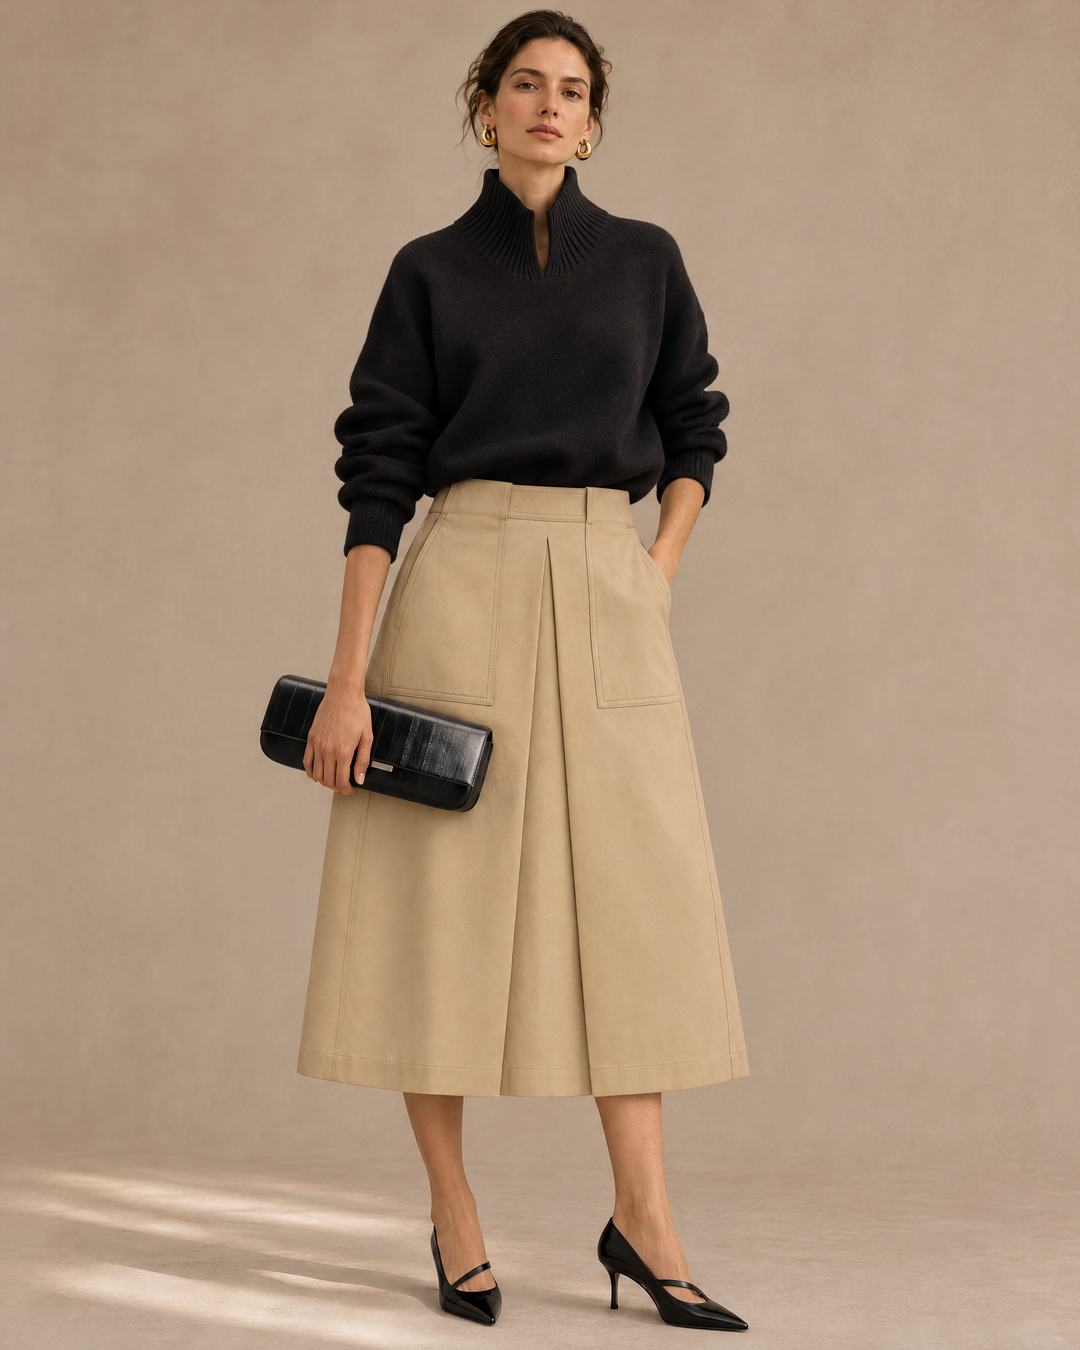
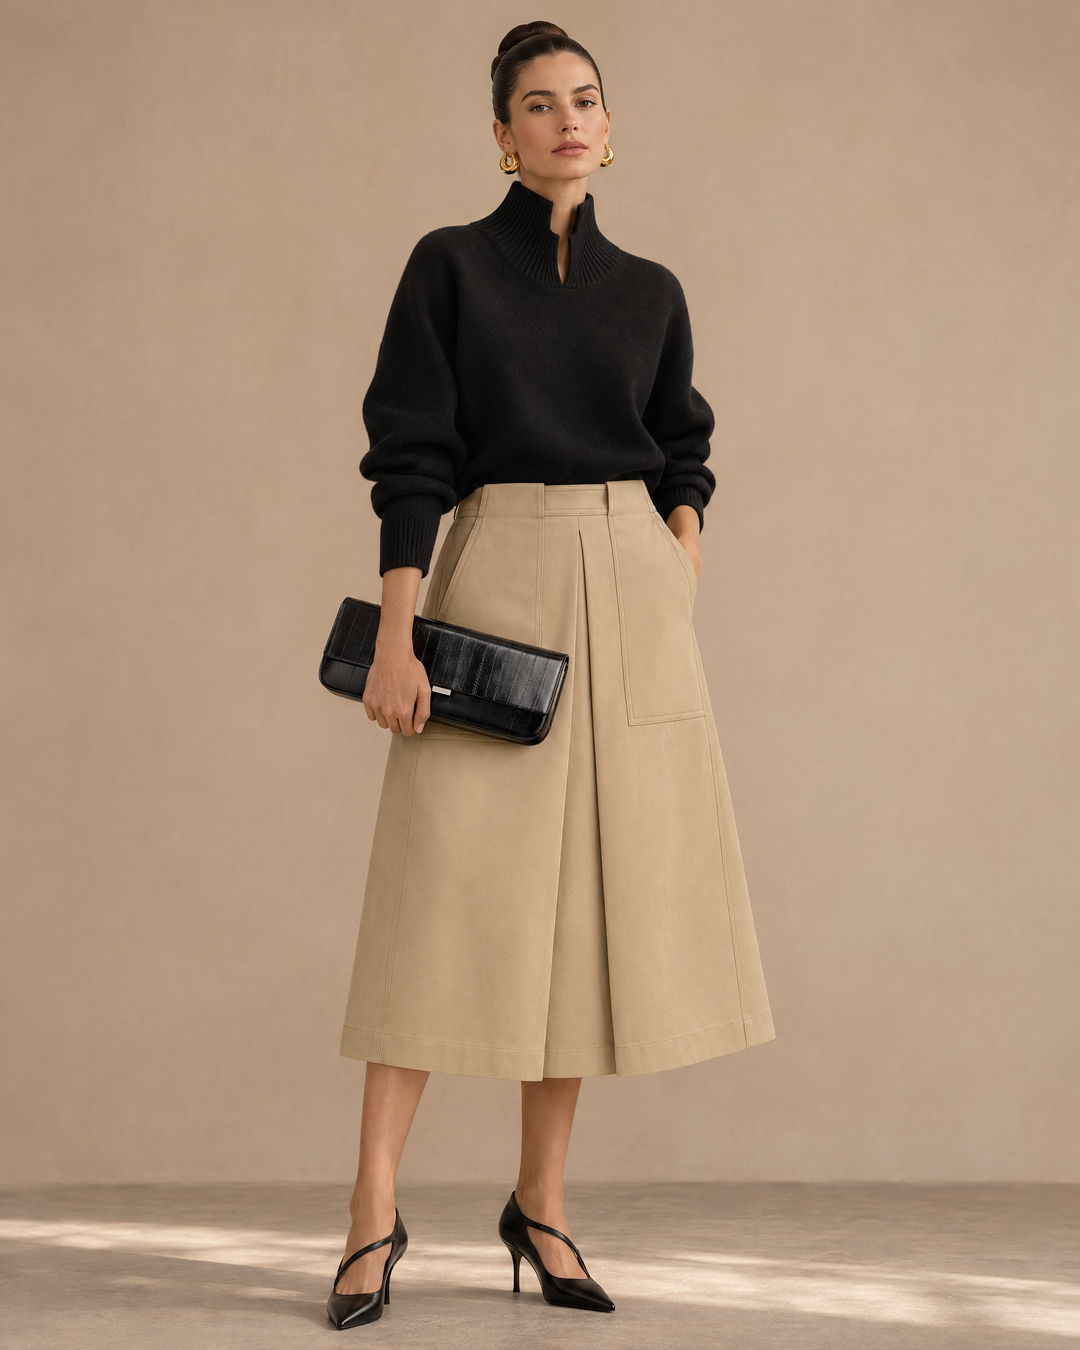
hub: coherence pass — multi-outfit edits show collages, single looks show models, hero strip one-per-category
- RULE: any multi-outfit item shows a collage on its card AND as the first image on click (E.hero renders first, before the per-outfit sections)
- One Skirt collage rebuilt with 3 distinct hairstyles (Desk low bun / Day Off waves / After Hours updo)
- Three Ways Off-Duty: new 3-outfit collage hero (offduty + p05 + p08 on models)
- The Quiet Neutral Capsule: new 6-outfit collage hero (3x2 models)
- Camel & Ink colour story hero = generated outfit (p07 model)
- offduty / luxe / studio looks now have real AI models (from real cutouts) instead of flat-lays
- Hero strip: one look per category — Off-Duty (p08), 9-to-5 Luxe (p07), Studio Noir (p06)
- After Hours pumps card fixed to transparent cutout

Claude-Session: https://claude.ai/code/session_011AKPGsXi5GirdddiPLe5ku

Changed region(s): [[0.0, 0.0, 1.0, 1.0], [0.6111, 0.7778, 0.6722, 0.8089], [0.3972, 0.2178, 0.4278, 0.2489]]

diff --git a/index.html b/index.html
@@ -289,7 +289,7 @@
           <a class="btn primary" href="#categories">Shop the looks</a>
           <a class="btn ghost" href="#how">How it works</a>
         </div>
-        ${(()=>{const feat=["p08","p05","p06"].map(bySlugLook).filter(Boolean);const pick=feat.length?feat:LOOKS.slice(0,3);
+        ${(()=>{const feat=["p08","p07","p06"].map(bySlugLook).filter(Boolean);const pick=feat.length?feat:LOOKS.slice(0,3);
           return pick.length?`<div class="hero-strip">${pick.map(l=>`<a class="hs" href="#/look/${l.id}"><img src="${esc(l.hero)}" alt="${esc(l.sub||l.category)}" loading="lazy"><span class="cap">${esc(l.category)}</span></a>`).join("")}</div>`:"";})()}
       </section>
 
